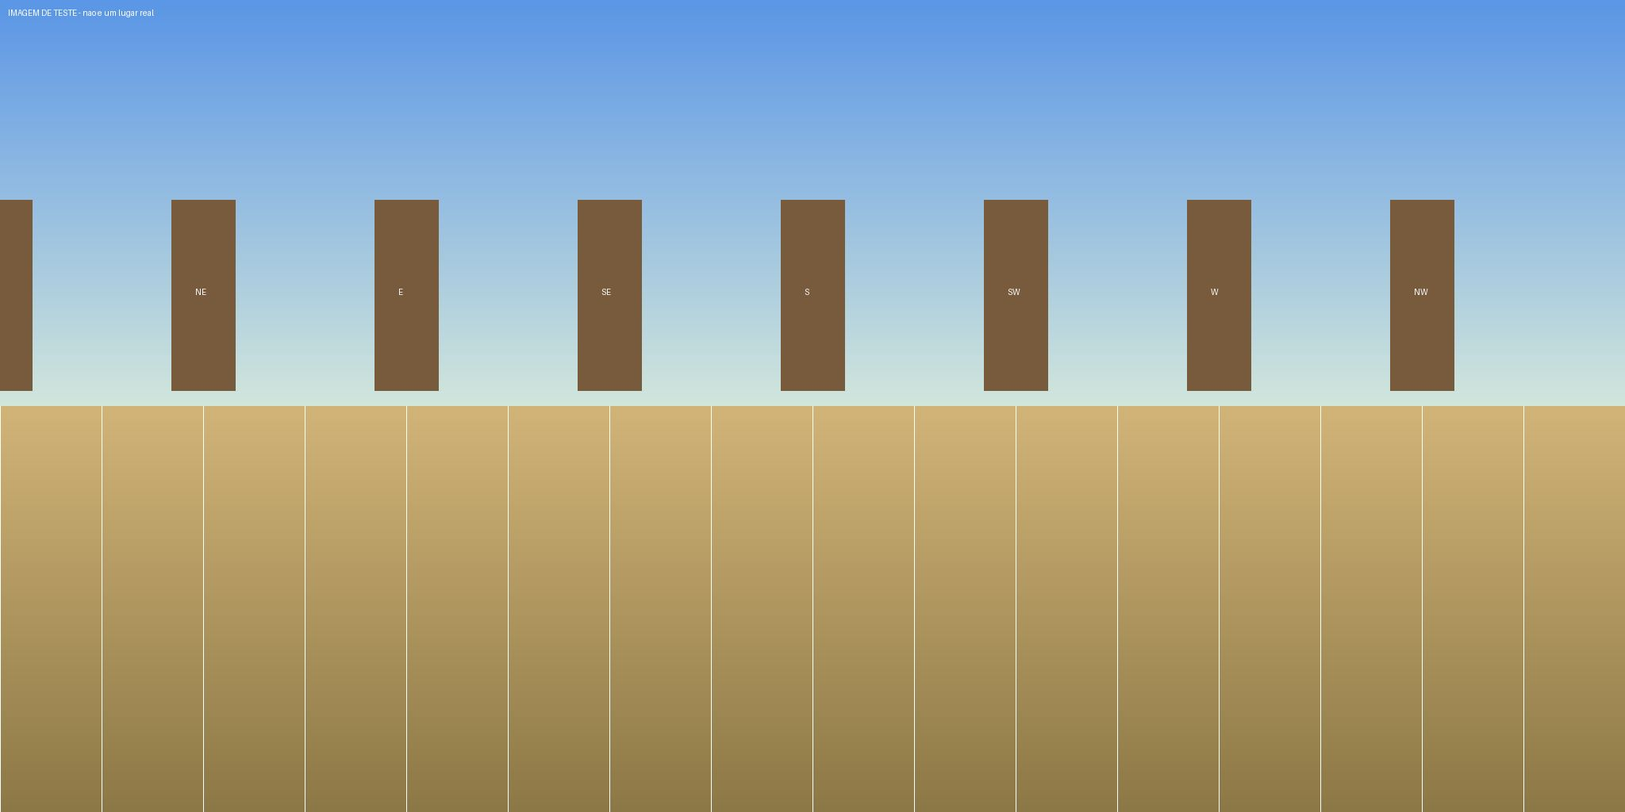
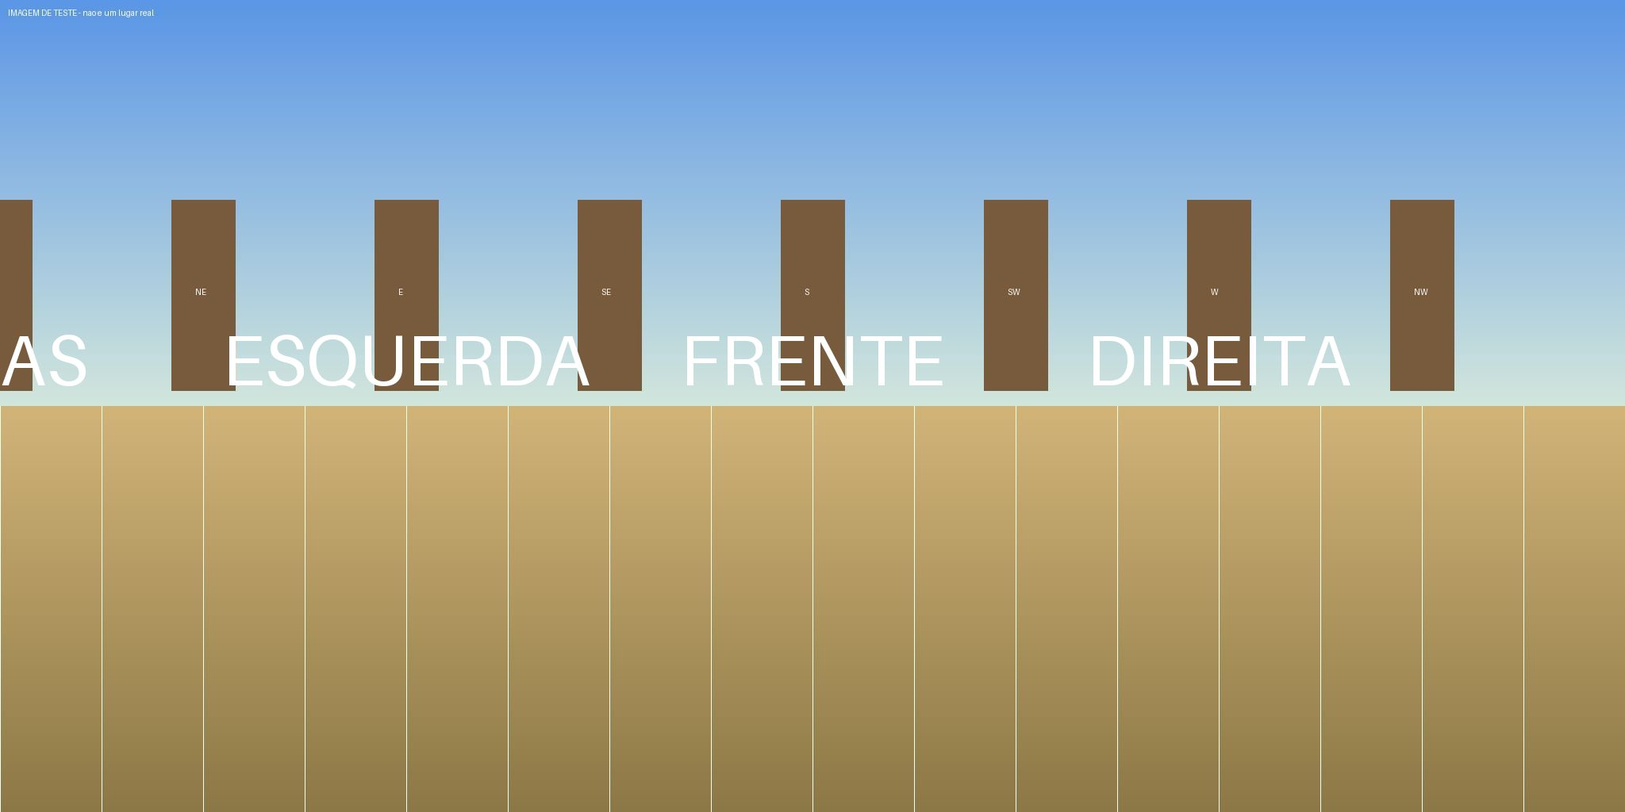
Real-photo tours from the credited archaeology gallery, flat-photo patches with blurred backdrop, fixed sphere orientation
Claude-Session: https://claude.ai/code/session_01Hb849Dr8XVQY4HWRgTo7kb

diff --git a/components/immersive/PanoView.tsx b/components/immersive/PanoView.tsx
@@ -5,25 +5,49 @@
 import { Canvas, useFrame, useThree } from "@react-three/fiber";
 import { useRouter } from "next/navigation";
 import { useCallback, useEffect, useMemo, useRef, useState } from "react";
-import { BackSide, LinearFilter, SRGBColorSpace, TextureLoader, type Texture } from "three";
+import { BackSide, CanvasTexture, LinearFilter, SRGBColorSpace, TextureLoader, type Texture } from "three";
 import { Button } from "@/components/ui/Button";
 import { closeSessionFull, createSession, teacherTurn, transcribeAudio } from "@/lib/api-client";
 import { defaultBibleVersion, t } from "@/lib/i18n";
-import { type PanoScene, type PanoTour, lookedAt, project, yawDiff } from "@/lib/immersive/pano";
+import { type PanoScene, type PanoTour, coverageFor, lookedAt, project, yawDiff } from "@/lib/immersive/pano";
 import { formatRefPt } from "@/lib/knowledge/refs-parser";
 import { getPlatform } from "@/lib/platform";
 import { speakText, stopSpeaking } from "@/lib/voice/client-speak";
 
 interface Cam { yaw: number; pitch: number; fov: number; vy: number; vp: number }
 const FOV_MIN = 35, FOV_MAX = 95;
+/** Turns the sphere so the center of the photo (u = 0.5) is at yaw 0 (checked on a test image with labels). */
+const SPHERE_TURN = -Math.PI / 2;
 
-function Sphere({ texture }: { texture: Texture | null }) {
+/** The photo on the sphere. A full 360° panorama covers it all; a flat photo is a patch on the sphere with the rest filled by a blurred, darkened copy of the same photo (so there is no black void). */
+function Sphere({ texture, coverage }: { texture: Texture | null; coverage: { h: number; v: number; full: boolean } }) {
+  const backdrop = useMemo(() => {
+    if (!texture || coverage.full) return null;
+    const img = texture.image as CanvasImageSource & { width: number; height: number };
+    const c = document.createElement("canvas"); c.width = 512; c.height = 256;
+    const ctx = c.getContext("2d");
+    if (!ctx) return null;
+    ctx.filter = "blur(14px) brightness(0.55) saturate(0.9)";
+    const k = Math.max(c.width / img.width, c.height / img.height);
+    ctx.drawImage(img, (c.width - img.width * k) / 2, (c.height - img.height * k) / 2, img.width * k, img.height * k);
+    const tx = new CanvasTexture(c); tx.colorSpace = SRGBColorSpace; return tx;
+  }, [texture, coverage.full]);
+  useEffect(() => () => backdrop?.dispose(), [backdrop]);
   if (!texture) return null;
+  const phiLen = (coverage.h * Math.PI) / 180, thetaLen = (coverage.v * Math.PI) / 180;
   return (
-    <mesh scale={[-1, 1, 1]}>
-      <sphereGeometry args={[50, 64, 40]} />
-      <meshBasicMaterial map={texture} side={BackSide} toneMapped={false} />
-    </mesh>
+    <>
+      {backdrop && (
+        <mesh scale={[-1, 1, 1]} rotation={[0, SPHERE_TURN, 0]}>
+          <sphereGeometry args={[58, 32, 20]} />
+          <meshBasicMaterial map={backdrop} side={BackSide} toneMapped={false} />
+        </mesh>
+      )}
+      <mesh scale={[-1, 1, 1]} rotation={[0, SPHERE_TURN, 0]}>
+        {coverage.full ? <sphereGeometry args={[50, 64, 40]} /> : <sphereGeometry args={[50, 48, 32, Math.PI - phiLen / 2, phiLen, Math.PI / 2 - thetaLen / 2, thetaLen]} />}
+        <meshBasicMaterial map={texture} side={BackSide} toneMapped={false} />
+      </mesh>
+    </>
   );
 }
 
@@ -68,6 +92,7 @@ export default function PanoView({ tour, initial, onOpenRef }: { tour: PanoTour;
   const wrap = useRef<HTMLDivElement>(null);
   const pinEls = useRef<Record<string, HTMLElement | null>>({});
   const cache = useRef<Map<string, Texture>>(new Map());
+  const coverage = useMemo(() => { const im = texture?.image as { width?: number; height?: number } | undefined; return coverageFor(im?.width ?? 2, im?.height ?? 1, scene.coverage); }, [texture, scene.coverage]);
   const [gazeId, setGazeId] = useState<string | null>(null);
 
   const loadTexture = useCallback((url: string): Promise<Texture> => {
@@ -82,7 +107,7 @@ export default function PanoView({ tour, initial, onOpenRef }: { tour: PanoTour;
   useEffect(() => {
     let alive = true;
     setLoading(true); setFailed(false);
-    loadTexture(scene.image).then((tx) => { if (!alive) return; setTexture(tx); setLoading(false); setFade(false); scene.links.forEach((l) => { const n = tour.scenes.find((s) => s.id === l.to); if (n) void loadTexture(n.image).catch(() => undefined); }); }).catch(() => { if (alive) { setFailed(true); setLoading(false); setFade(false); } });
+    loadTexture(scene.image).then((tx) => { if (!alive) return; setTexture(tx); { const im = tx.image as { width: number; height: number }; const cv = coverageFor(im.width, im.height, scene.coverage); cam.current.fov = cv.full ? 75 : Math.max(FOV_MIN, Math.min(75, cv.v * 1.12)); } setLoading(false); setFade(false); scene.links.forEach((l) => { const n = tour.scenes.find((s) => s.id === l.to); if (n) void loadTexture(n.image).catch(() => undefined); }); }).catch(() => { if (alive) { setFailed(true); setLoading(false); setFade(false); } });
     return () => { alive = false; };
   }, [scene, tour, loadTexture]);
   useEffect(() => () => { stopSpeaking(); cache.current.forEach((tx) => tx.dispose()); }, []);
@@ -195,7 +220,7 @@ export default function PanoView({ tour, initial, onOpenRef }: { tour: PanoTour;
     <div ref={wrap} className="relative h-full w-full overflow-hidden bg-black" data-testid="pano" role="application" aria-label={`${tour.title}: ${scene.title}. ${t("pano.keys")}`}>
       <div className="absolute inset-0 touch-none cursor-grab active:cursor-grabbing" onPointerDown={onPointerDown} onPointerMove={onPointerMove} onPointerUp={onPointerUp} onPointerCancel={onPointerUp} onWheel={onWheel}>
         <Canvas dpr={[1, 2]} camera={{ fov: 75, near: 0.1, far: 200, position: [0, 0, 0] }} gl={{ antialias: true }} aria-hidden>
-          <Sphere texture={texture} />
+          <Sphere texture={texture} coverage={coverage} />
           <CameraRig cam={cam} />
         </Canvas>
       </div>

diff --git a/lib/immersive/panos/arqueologia.ts b/lib/immersive/panos/arqueologia.ts
@@ -1,0 +1,41 @@
+// Real-photo tours (Prompt 3.5b) made from the credited archaeology photos of the app (lib/archaeology/items.json): real places of the Bible,
+// photographed today. Each photo keeps its author, license and Commons page; each pin carries the text and verses already reviewed in the gallery.
+import items from "@/lib/archaeology/items.json";
+import { PanoTour, type PanoScene } from "../pano";
+
+interface Item { id: string; name: string; period: string; place: string; refs: string[]; wiki?: string; text: string; image: string; credit: { title: string; author: string; license: string; page?: string } }
+const byId = new Map((items as Item[]).map((i) => [i.id, i]));
+const slug = (id: string) => id.replace(/-/g, "_");
+
+function scene(id: string, next?: string, prev?: string): PanoScene {
+  const it = byId.get(id);
+  if (!it) throw new Error(`archaeology item ${id} not found`);
+  const links = [
+    ...(next ? [{ to: slug(next), label: `Próximo: ${byId.get(next)!.name}`, yaw: 38, pitch: -14 }] : []),
+    ...(prev ? [{ to: slug(prev), label: `Anterior: ${byId.get(prev)!.name}`, yaw: -38, pitch: -14 }] : []),
+  ];
+  return {
+    id: slug(id), title: it.name, image: it.image,
+    credit: { author: it.credit.author, license: it.credit.license, source: it.credit.page ?? it.credit.title },
+    startYaw: 0, hotspots: [{ id: "info", label: it.name, text: `${it.place} · ${it.period}. ${it.text}`.slice(0, 600), refs: it.refs.slice(0, 3), yaw: 0, pitch: 0 }], links,
+    script: `${it.name}, em ${it.place}. ${it.text} O que você já sabia sobre este lugar?`.slice(0, 900),
+  } as PanoScene;
+}
+function chain(ids: string[]): PanoScene[] { return ids.map((id, i) => scene(id, ids[i + 1], ids[i - 1])); }
+const sources = (ids: string[]) => [...ids.map((id) => byId.get(id)!.wiki).filter((w): w is string => !!w), "Easton's Bible Dictionary (domínio público)"];
+
+function tour(o: { id: string; title: string; era: string; ids: string[]; summary: string; uncertainty: string }): PanoTour {
+  return PanoTour.parse({ id: o.id, title: o.title, era: o.era, start: slug(o.ids[0]), scenes: chain(o.ids), refs: [...new Set(o.ids.flatMap((i) => byId.get(i)!.refs))].slice(0, 12), sheet: { summary: o.summary, sources: sources(o.ids), uncertainty: o.uncertainty } });
+}
+
+export const ARCHAEOLOGY_TOURS: PanoTour[] = [
+  tour({ id: "galileia", title: "Galileia de Jesus", era: "Ruínas de hoje de lugares do ministério de Jesus", ids: ["capernaum-synagogue", "sepphoris", "hazor", "megiddo"],
+    summary: "Lugares da Galileia e do norte de Israel citados na Bíblia, fotografados como estão hoje. As fotos mostram ruínas de várias épocas: por exemplo, a sinagoga visível em Cafarnaum é dos séculos IV e V, construída depois do tempo de Jesus, sobre uma construção mais antiga.",
+    uncertainty: "O que se vê é o sítio arqueológico de hoje, não a cidade do primeiro século. Datas e usos de cada ruína seguem a pesquisa arqueológica, que pode mudar." }),
+  tour({ id: "jerusalem_e_judeia", title: "Jerusalém e Judeia", era: "Lugares de Jerusalém, Belém e Jericó como estão hoje", ids: ["hezekiah-tunnel", "herodium", "jericho", "beth-shean"],
+    summary: "Fotos reais de lugares da Judeia e do vale do Jordão ligados a reis, ao nascimento de Jesus e à conquista de Canaã. O Túnel de Ezequias é um canal de água escavado cerca de 700 a.C.; o Herodium é a fortaleza de Herodes, o Grande, perto de Belém.",
+    uncertainty: "São sítios de hoje. A ligação de cada lugar com os textos bíblicos é a da tradição e da pesquisa arqueológica, e algumas identificações são debatidas." }),
+  tour({ id: "paulo_na_grecia_e_asia", title: "Paulo na Grécia e na Ásia", era: "Cidades das viagens de Paulo, como estão hoje", ids: ["philippi", "areopagus", "ephesus-theatre"],
+    summary: "Filipos (Macedônia), o Areópago de Atenas e o grande teatro de Éfeso aparecem no livro de Atos. As fotos mostram as ruínas e o terreno de hoje; muitas construções visíveis foram erguidas ou reformadas depois do tempo de Paulo.",
+    uncertainty: "O teatro de Éfeso que se vê é do período romano e pode ter sido ampliado depois do tempo de Paulo. A foto do Areópago mostra o monte, não a cidade do primeiro século." }),
+];

diff --git a/app/(app)/imersao/page.tsx b/app/(app)/imersao/page.tsx
@@ -11,7 +11,7 @@ import { Modal } from "@/components/ui/Modal";
 import { getBibleVerses, getEnvironment, listEnvironments, type EnvListItem } from "@/lib/api-client";
 import { defaultBibleVersion, t } from "@/lib/i18n";
 import { EnvironmentPackage } from "@/lib/immersive/package";
-import { getPackage, getTour, PACKAGES, TOURS } from "@/lib/immersive/registry";
+import { getPackage, getTour, PUBLIC_TOURS } from "@/lib/immersive/registry";
 import { formatRefPt } from "@/lib/knowledge/refs-parser";
 
 const PanoView = dynamic(() => import("@/components/immersive/PanoView"), { ssr: false });
@@ -36,7 +36,7 @@ function ImmersiveScreen() {
   }, [params]);
   useEffect(() => {
     if (id === undefined || tourId) return;
-    if (!id) { void listEnvironments().then((l) => setList([...l, ...Object.values(PACKAGES).filter((c) => !l.some((e) => e.id === c.id)).map((c) => ({ id: c.id, title: c.title, era: c.era, size_bytes: 0, source: "code" as const }))])).catch(() => setError(t("imm.notfound"))); return; }
+    if (!id) { void listEnvironments().then(setList).catch(() => setError(t("imm.notfound"))); return; }
     const local = getPackage(id);
     if (local) { setPkg(local); return; }
     void getEnvironment(id).then((r) => { const p = EnvironmentPackage.safeParse(r.package); if (p.success) setPkg(p.data); else setError(t("imm.notfound")); }).catch(() => setError(t("imm.notfound")));
@@ -68,7 +68,7 @@ function ImmersiveScreen() {
         <h1 className="text-3xl">{t("home.imm")}</h1>
         <h2 className="text-xl">{t("imm.panos")}</h2>
         <p className="text-muted">{t("imm.panos.help")}</p>
-        <ul className="flex flex-col gap-2">{Object.values(TOURS).map((x) => <li key={x.id}><Link href={`/imersao?t=${x.id}`} className="block rounded-control border border-line bg-surface p-3" data-testid={`tour-${x.id}`}><strong>{x.title}</strong><span className="block text-sm text-muted">{x.era} · {x.scenes.length} {t("pano.places").toLowerCase()}</span></Link></li>)}</ul>
+        <ul className="flex flex-col gap-2">{PUBLIC_TOURS.map((x) => <li key={x.id}><Link href={`/imersao?t=${x.id}`} className="block rounded-control border border-line bg-surface p-3" data-testid={`tour-${x.id}`}><strong>{x.title}</strong><span className="block text-sm text-muted">{x.era} · {x.scenes.length} {t("pano.places").toLowerCase()}</span></Link></li>)}</ul>
         <h2 className="mt-3 text-xl">{t("imm.list.title")}</h2>
         <p className="text-muted">{t("imm.list.help")}</p>
         <ul className="flex flex-col gap-2">{list.map((e) => <li key={e.id}><Link href={`/imersao?e=${e.id}`} className="block rounded-control border border-line bg-surface p-3"><strong>{e.title}</strong><span className="block text-sm text-muted">{e.era}{e.size_bytes ? ` · ${(e.size_bytes / 1e6).toFixed(1)} MB` : ""}</span></Link></li>)}</ul>

diff --git a/lib/immersive/pano.ts b/lib/immersive/pano.ts
@@ -19,6 +19,8 @@ export const PanoScene = z.object({
   image: z.string().min(1).max(300),
   /** Credit is mandatory: author, license and source of the photo. */
   credit: z.object({ author: z.string().min(2).max(120), license: z.string().min(2).max(60), source: z.string().min(2).max(300) }),
+  /** How much of the sphere the photo covers, in degrees. Without it: 2:1 images are full 360°×180° panoramas and any other photo is placed as a flat picture with the rest of the sphere blurred. */
+  coverage: z.object({ h: z.number().min(20).max(360), v: z.number().min(15).max(180) }).optional(),
   /** Where the visitor faces when arriving by default. */
   startYaw: yaw.default(0),
   hotspots: z.array(PanoHotspot).max(20).default([]),
@@ -92,4 +94,13 @@ export function project(yawDeg: number, pitchDeg: number, camYaw: number, camPit
   const x = (d[0] * r[0] + d[1] * r[1] + d[2] * r[2]) / (z * t * aspect);
   const y = (d[0] * u[0] + d[1] * u[1] + d[2] * u[2]) / (z * t);
   return { x: 0.5 + x / 2, y: 0.5 - y / 2 };
+}
+
+/** Horizontal and vertical coverage (degrees) of a photo in the sphere, from its pixel size and the declared coverage, if any. */
+export function coverageFor(width: number, height: number, declared?: { h: number; v: number }): { h: number; v: number; full: boolean } {
+  if (declared) return { ...declared, full: declared.h >= 359 && declared.v >= 179 };
+  const aspect = width / Math.max(1, height);
+  if (aspect >= 1.95 && aspect <= 2.05) return { h: 360, v: 180, full: true };
+  const v = aspect >= 1 ? 52 : 70; // a flat photo is shown about as big as the screen would show it: portrait photos taller
+  return { h: Math.min(150, Math.round(v * aspect)), v, full: false };
 }

diff --git a/lib/immersive/panos/teste.ts b/lib/immersive/panos/teste.ts
@@ -11,7 +11,7 @@ export const TEST_TOUR: PanoTour = PanoTour.parse({
   scenes: [
     { id: "entrada", title: "Entrada", image: "/panos/teste.jpg", credit, startYaw: 0,
       hotspots: [{ id: "porta", label: "A porta", text: "Um ponto de interesse de teste, para ver o texto e o versículo.", refs: ["JHN.10.9"], yaw: 45, pitch: 5 }],
-      links: [{ to: "patio", label: "Ir ao pátio", yaw: 90, pitch: -10, arriveYaw: 90 }],
+      links: [{ to: "patio", label: "Ir ao pátio", yaw: 70, pitch: -10, arriveYaw: 90 }],
       script: "Esta é a entrada do panorama de teste. Arraste para olhar em volta. Qual ponto você quer ver primeiro?" },
     { id: "patio", title: "Pátio", image: "/panos/teste.jpg", credit, startYaw: 180,
       hotspots: [{ id: "poco", label: "O poço", text: "Outro ponto de teste, para conferir a navegação entre fotos.", refs: [], yaw: -120, pitch: 0 }],

diff --git a/lib/immersive/registry.ts b/lib/immersive/registry.ts
@@ -6,7 +6,10 @@ export const PACKAGES: Record<string, EnvironmentPackage> = { [TEST_PACKAGE.id]:
 export const getPackage = (id: string) => PACKAGES[id];
 
 // 360° photo tours (Prompt 3.5b). A new tour is one more line here (or an upload in the admin tool, later).
+import { ARCHAEOLOGY_TOURS } from "./panos/arqueologia";
 import { TEST_TOUR } from "./panos/teste";
 import type { PanoTour } from "./pano";
-export const TOURS: Record<string, PanoTour> = { [TEST_TOUR.id]: TEST_TOUR };
+/** The test tour is internal: it is not listed to students (open it with ?t=panorama_teste). */
+export const TOURS: Record<string, PanoTour> = Object.fromEntries([...ARCHAEOLOGY_TOURS, TEST_TOUR].map((x) => [x.id, x]));
+export const PUBLIC_TOURS: PanoTour[] = ARCHAEOLOGY_TOURS;
 export const getTour = (id: string) => TOURS[id];

diff --git a/tests/unit/pano.test.ts b/tests/unit/pano.test.ts
@@ -76,3 +76,17 @@ describe("projection of pins on the screen", () => {
     expect(b).toBeLessThan(a);
   });
 });
+
+import { coverageFor } from "@/lib/immersive/pano";
+describe("photo coverage", () => {
+  it("a 2:1 image is a full panorama; a flat photo covers only part of the sphere", () => {
+    expect(coverageFor(4096, 2048).full).toBe(true);
+    const flat = coverageFor(1100, 733);
+    expect(flat.full).toBe(false); expect(flat.h).toBeGreaterThan(flat.v); expect(flat.h).toBeLessThanOrEqual(150);
+    const portrait = coverageFor(825, 1100);
+    expect(portrait.h).toBeLessThan(portrait.v);
+  });
+  it("a declared coverage wins (a wide cylindrical panorama of 180°)", () => {
+    expect(coverageFor(8000, 1500, { h: 180, v: 34 })).toEqual({ h: 180, v: 34, full: false });
+  });
+});

diff --git a/docs/PROGRESS.md b/docs/PROGRESS.md
@@ -60,6 +60,7 @@ Prompt 0.1 em andamento. Etapas 1 e 4 concluídas; Etapa 2 (decisões) quase fec
 | 3.4 (ferramenta) | 2026-11-21 | **Linha de produção de ambientes.** (1) **Ferramenta `/admin/ambientes`:** monta o pacote (partida, área, zonas, pontos de interesse com versículos, estações do guia, sons, ficha histórica com fontes), um **.glb por zona**, **pré-visualização andando como o aluno** e botão *Pegar esta posição* para criar ponto ou estação onde o admin está parado; modelo simples para começar; rascunho e publicar; editar, abrir, excluir. (2) **Validação de desempenho antes de publicar** (`lib/immersive/glb-check.ts`, igual no navegador e no servidor): arquivo até 5 MB, até 150 mil triângulos, texturas até 2048 px (lidas do cabeçalho PNG/JPEG), até 8 texturas, até 200 objetos, só .glb único; o motivo aparece na tela e a API recusa (422). RA-20 nos textos. (3) **Publicação sem nova versão do app:** o pacote fica na tabela `environments` (migração `0042`) e os modelos no bucket público `environments`; o aluno lista em `/imersao` e abre `/imersao?e=`; a zona só é montada (e o .glb baixado) quando o aluno se aproxima, e é liberada ao se afastar. Rascunho invisível ao aluno; auditoria; só admin escreve; sem função nova (rotas dentro de `/api/v1/study`). (4) **Fichas** dos 5 ambientes (entrada anterior). Testes: 9 de unidade (`glb-check`) e e2e `environments.mjs` (32 verificações: permissões, validação e desempenho, RA-20, rascunho oculto, publicação, GLB público, tela do admin criando do zero e publicando, aluno abrindo e andando, exclusão). **Pendente:** *gerar* o roteiro do guia com IA a partir dos pontos (hoje se escreve à mão; o professor adapta ao responder); posicionar o objeto GLB por zona só com escala e altura (sem editor de cena); medir 30 quadros por segundo em Android real; o consultor precisa revisar as fichas antes da modelagem dos ambientes reais |
 | 3.5 | 2026-11-21 | **Realidade virtual por WebXR no mesmo PWA** (recomendação em `docs/VR_RELATORIO.md`: sem loja, mesmo código; Quest Browser completo, Vision Pro só VR). `@react-three/xr` 6.6.32; `lib/immersive/vr.ts` (rotação em passos de 30°, validação de teletransporte, pose do painel, modelo do painel; 10 testes) e `components/immersive/VrLayer.tsx` (origem do visitante, rotação em passos, teletransporte, painel flutuante em textura de canvas com botões por raio/pinça/olhar). Botão **Entrar em VR** só onde há `immersive-vr`; recusa do óculos não quebra a tela. Painel mostra ponto de interesse com até 2 versículos, estações, ficha e resposta do professor; **professor por voz no óculos** (microfone via `lib/platform`, resposta falada). Sem andar suave (conforto). Testes: 627 de unidade; e2e `vr.mjs` com WebXR simulado e `immersive.mjs` (botão oculto sem WebXR). **Pendente:** medir fps e conforto num Quest real (lista no relatório); o Tabernáculo ainda aguarda o consultor, então o teste foi no ambiente de teste. Tag `v1.0-imersivo` |
 | 3.5b | 2026-11-21 | **Fotos 360° reais com navegação por pontos** (pedido do dono depois de ver o pátio de teste: "imagens reais, navegação real"; aprovado: fotos 360° agora, 3D depois). `lib/immersive/pano.ts` (esquema Zod do tour: cenas com foto equirretangular, **crédito obrigatório** autor/licença/fonte, pontos de interesse com versículos, setas para outras cenas; projeção de pinos, olhar, `panoContext` do professor; 12 testes) e `components/immersive/PanoView.tsx`: arrastar para olhar (inércia), roda do mouse e pinça para zoom, setas do teclado; **setas ➤ na própria foto** para andar e **abas de locais** para ir direto; pinos "i" colados na foto; transição com fade e pré-carga das fotos vizinhas; crédito sempre na tela; ficha com créditos de todas as fotos; professor por voz sabe qual foto e o que o aluno olha (aviso de que a foto é de hoje, não da época bíblica). Início ganhou o cartão **Imersão 3D** e `/imersao` lista os tours. **Bug corrigido:** tocar num item da lista não abria (a página não reagia à mudança da URL; agora usa `useSearchParams`). Tour de teste `panorama_teste` com imagem gerada (não é lugar real). e2e `pano.mjs` (13 verificações). **Pendente:** as fotos 360° reais dos lugares: a Wikimedia Commons bloqueou meu acesso (429), então preciso que o dono envie os arquivos (ou eu tentar de novo mais tarde); modo VR do tour 360°; publicar tours pelo admin (hoje no registro em código) |
+| 3.5c | 2026-11-21 | **Tours com fotos reais (resposta a "as imagens não são reais").** A Wikimedia Commons não tem fotos 360° livres dos lugares bíblicos (conferi as categorias "360° panoramas of …": nenhuma de Israel, Jordânia, Grécia ou Turquia) e bloqueia meu acesso (429), então **usei as 22 fotos reais já creditadas da galeria de arqueologia**: 3 tours com fotos de sítios de hoje: **Galileia de Jesus** (Cafarnaum, Séforis, Hazor, Megiddo), **Jerusalém e Judeia** (Túnel de Ezequias, Herodium, Jericó, Bete-Seã) e **Paulo na Grécia e na Ásia** (Filipos, Areópago, Teatro de Éfeso). Cada foto mantém autor, licença e página; texto e versículos dos pontos são os já revisados da galeria. O visualizador agora aceita **fotos planas** (cobertura parcial da esfera, com o resto preenchido por uma cópia borrada e escurecida da própria foto, sem vazio preto) além de panoramas 360° 2:1, e `coverage` declarada para panoramas largos. **Orientação conferida por captura de tela** (o centro da foto fica à frente; havia girado 90°). O tour de teste saiu da lista dos alunos (abre só com `?t=panorama_teste`) e o ambiente "Pátio de teste" também. e2e `pano.mjs` com 15 verificações. **Limites:** fotos de 1.100 px (nítidas só em tela pequena), sem profundidade (não é 3D); setas "Próximo/Anterior" são saltos entre locais, não caminhada contínua. **Para melhorar de verdade:** fotos 360° ou panorâmicas em alta resolução enviadas pelo dono (formato 2:1, com autor e licença) |
 | Arqueologia (galeria) | 2026-11-21 | **Galeria de arqueologia aberta com 18 fotos** (Tel Dan, Jericó, Megido, Hazor, Ketef Hinnom, Arco de Tito, Filipos, Herodium, Túnel de Ezequias, Estela de Mesa, Rolo de Isaías, Cilindro de Ciro, Pedra de Pilatos, Bete-Seã, Séforis, Magdala, Cafarnaum e Éfeso; as 10 últimas baixadas pelos links de `docs/ARQUEOLOGIA_LINKS.md`, então o crédito é exato), enviadas à mão pelo dono porque o Wikimedia bloqueia este ambiente (429). Cada foto leva o crédito e a licença do arquivo do Commons com o mesmo assunto e a mesma proporção (`lib/archaeology/received.json`; Filipos também tem o autor no EXIF). Script `scripts/media/ingest-archaeology.mjs`. **Faltam 13 peças**; as fotos sem autor ou licença verificável, pequenas ou com texto/interface de terceiros ficam em `docs/arqueologia-recebidas/` (não publicadas). O dono deve conferir se as 8 vieram mesmo das páginas do Commons indicadas, para os créditos estarem certos |
 | Curiosidades (narrações e filmes) | 2026-11-21 | **22 narrações gravadas** (voz Piper masculina) e **15 mini-filmes MP4** (960x540, h264+aac, 40 s cada, legenda queimada, crédito da foto) publicados no armazenamento `media` e no catálogo `lib/curiosities/catalog.json`. **7 curiosidades ficam só em áudio** até as fotos chegarem: Pássaro na gaiola (Prisma de Senaqueribe, Laquis), Jeú no obelisco, Israel no Egito (Merneptá), Dois tanques (Betesda, Siloé), Gálio e Paulo, Erasto e Paulo no Areópago. Quando as fotos entrarem em `public/arqueologia/`, rodar `ingest-archaeology.mjs`, `render-films.mjs`, `build-catalog.mjs` e `upload-media.mjs`, e publicar |
 
